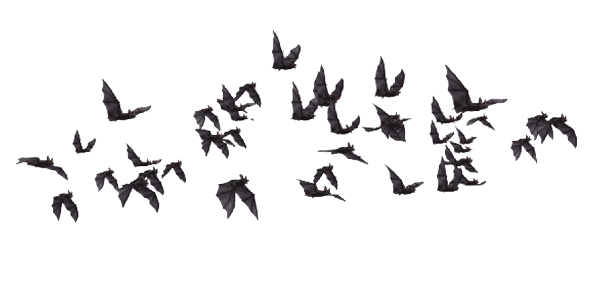
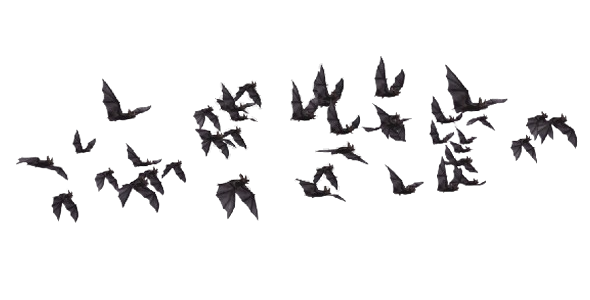
first attempt at parallax bats in miniHogwarts

diff --git a/assets/js/platformer3x/GameSetup.js b/assets/js/platformer3x/GameSetup.js
@@ -315,6 +315,7 @@ const GameSetup = {
       reef: { src: "/images/platformer/backgrounds/reef.png" },
       quidditch: { src: "/images/platformer/backgrounds/quidditch2.jpg" },
       miniHogwarts: { src: "/images/platformer/backgrounds/miniHogwarts.png", parallaxSpeed: 0.5, moveOnKeyAction: true },
+      bat: {src: "/images/platformer/backgrounds/bat.png" }, 
       space: { src: "/images/platformer/backgrounds/planet.jpg" },
       castles: { src: "/images/platformer/backgrounds/castles.png" },
       winter: { src: "/images/platformer/backgrounds/winter.png", parallaxSpeed: 0.4, moveOnKeyAction: true },
@@ -1007,6 +1008,7 @@ const GameSetup = {
     const miniHogwartsObjects = [
       // GameObject(s), the order is important to z-index...
       { name: 'miniHogwarts', id: 'background', class: BackgroundParallax, data: this.assets.backgrounds.miniHogwarts },
+      { name: 'bat', id: 'background', class: BackgroundParallax, data: this.assets.backgrounds.bat }, 
       { name: 'blocks', id: 'jumpPlatform', class: BlockPlatform, data: this.assets.platforms.stone, xPercentage: 0.009, yPercentage: 0.47 },
       { name: 'blocks', id: 'jumpPlatform', class: BlockPlatform, data: this.assets.platforms.stone, xPercentage: 0.058, yPercentage: 0.66 },
       { name: 'blocks', id: 'jumpPlatform', class: BlockPlatform, data: this.assets.platforms.stone, xPercentage: 0.1, yPercentage: 0.81 },
